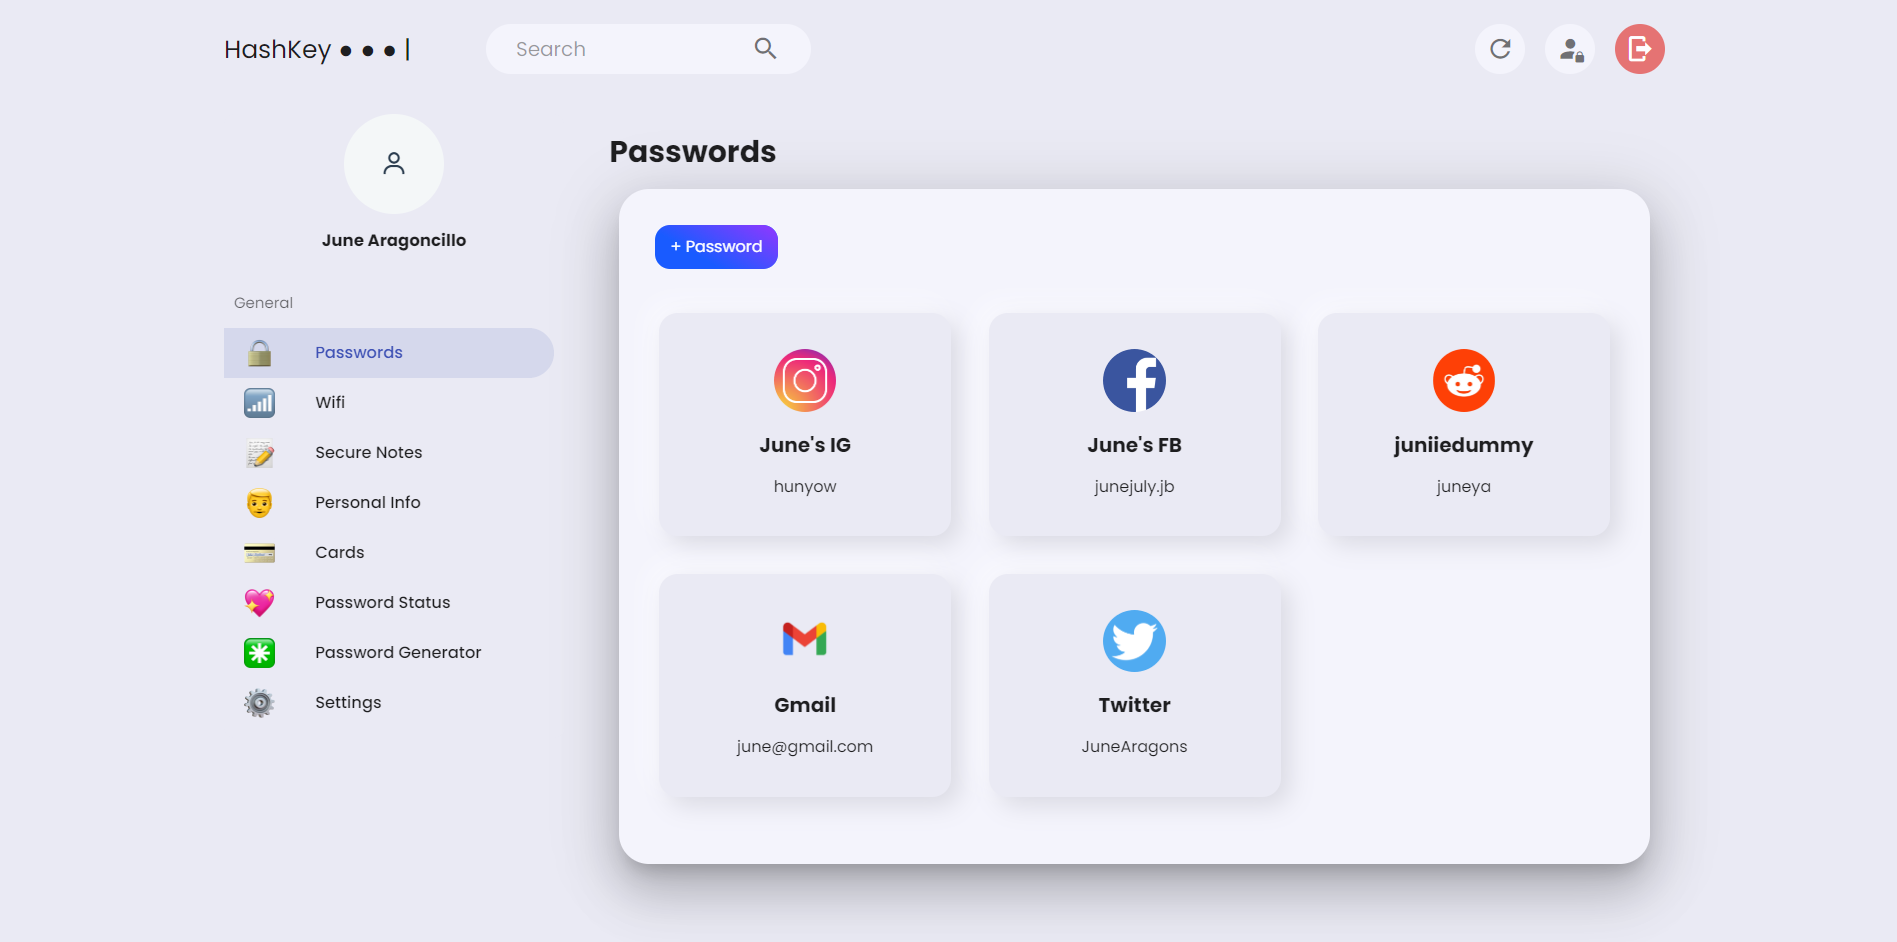
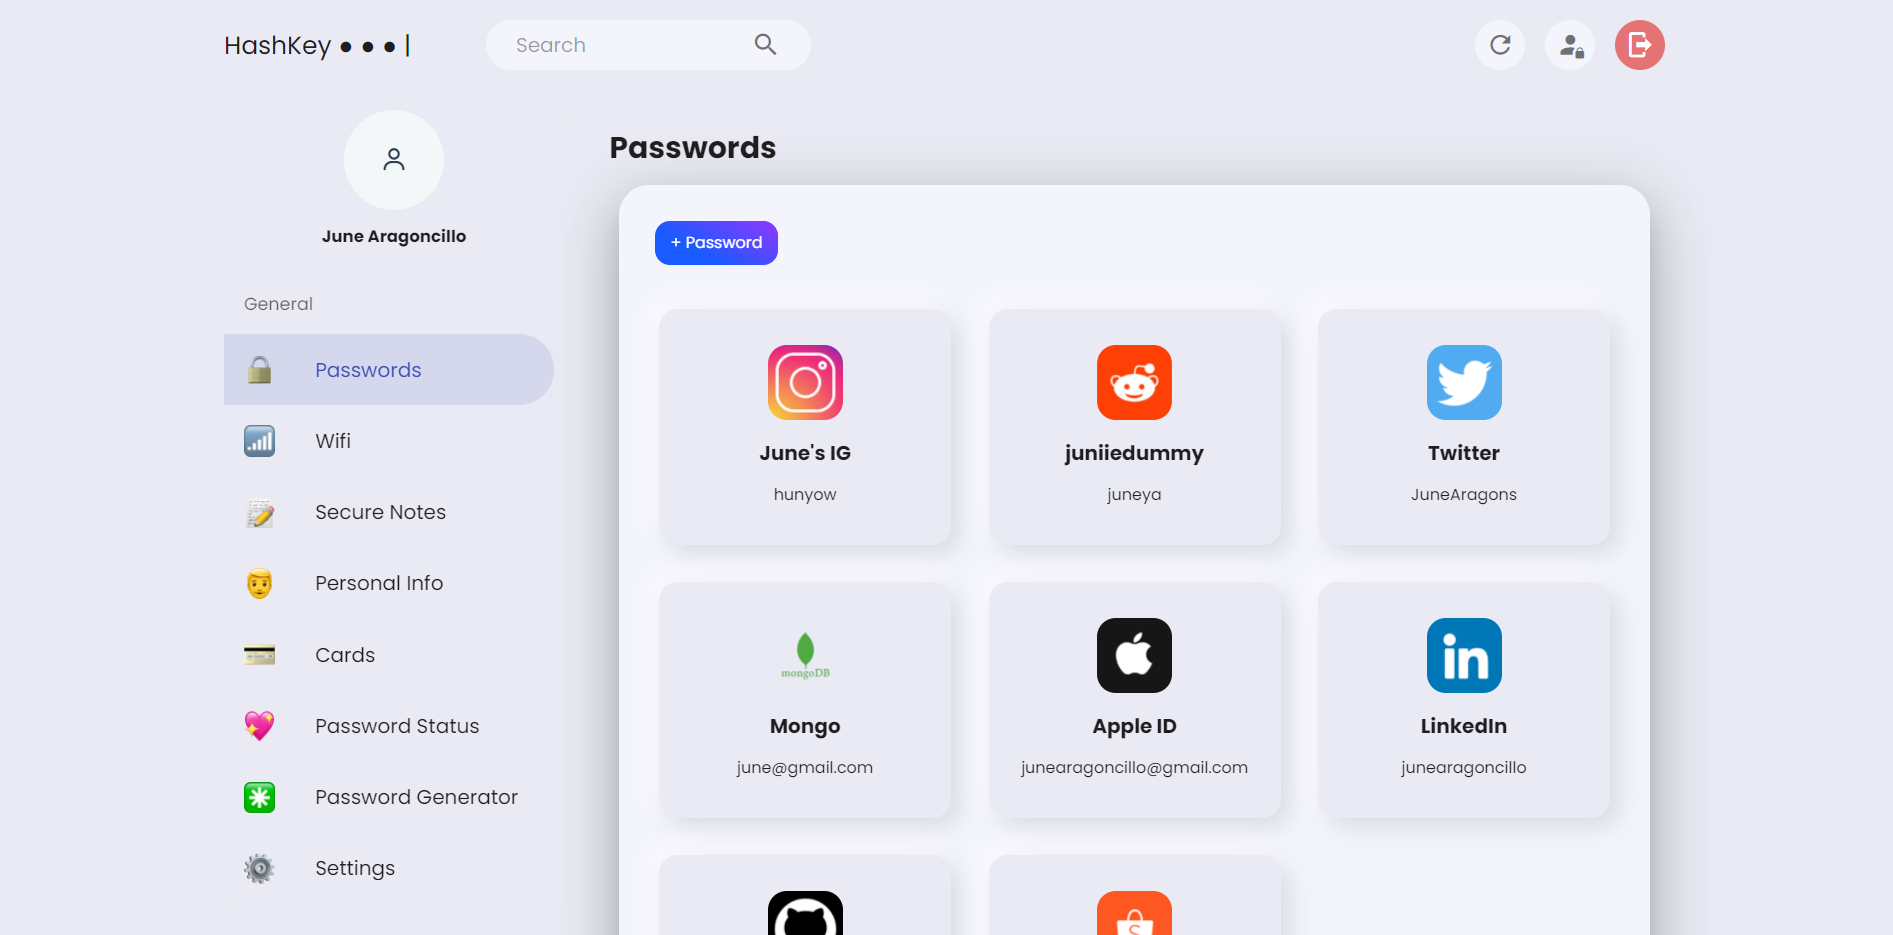
new screenshot

diff --git a/client/src/components/Main/SideBar.vue b/client/src/components/Main/SideBar.vue
@@ -75,7 +75,7 @@ export default {
         <div class="my-3">
             <h5 class="text-center">{{ user_info.name }}</h5>
         </div>
-        <v-list color="transparent" shaped dense>
+        <v-list color="transparent" shaped>
             <v-list-item-group
                 v-model="index"
                 mandatory
